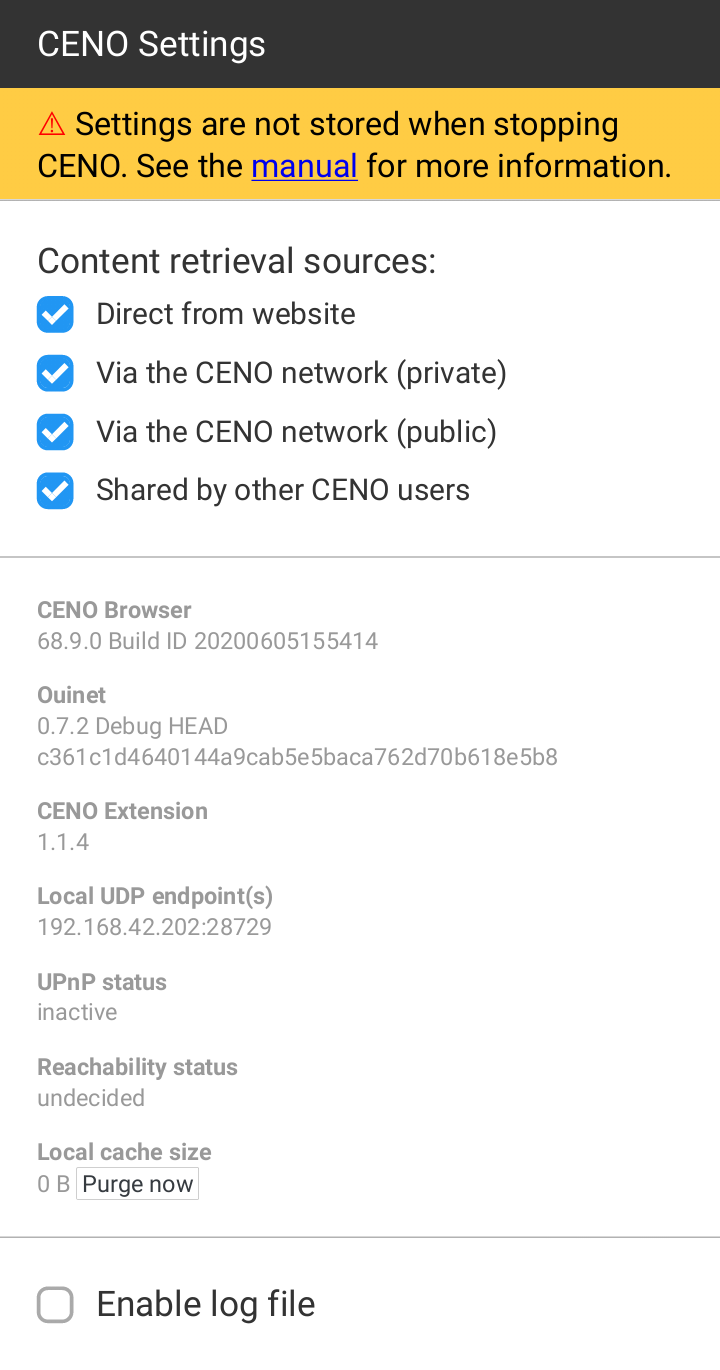
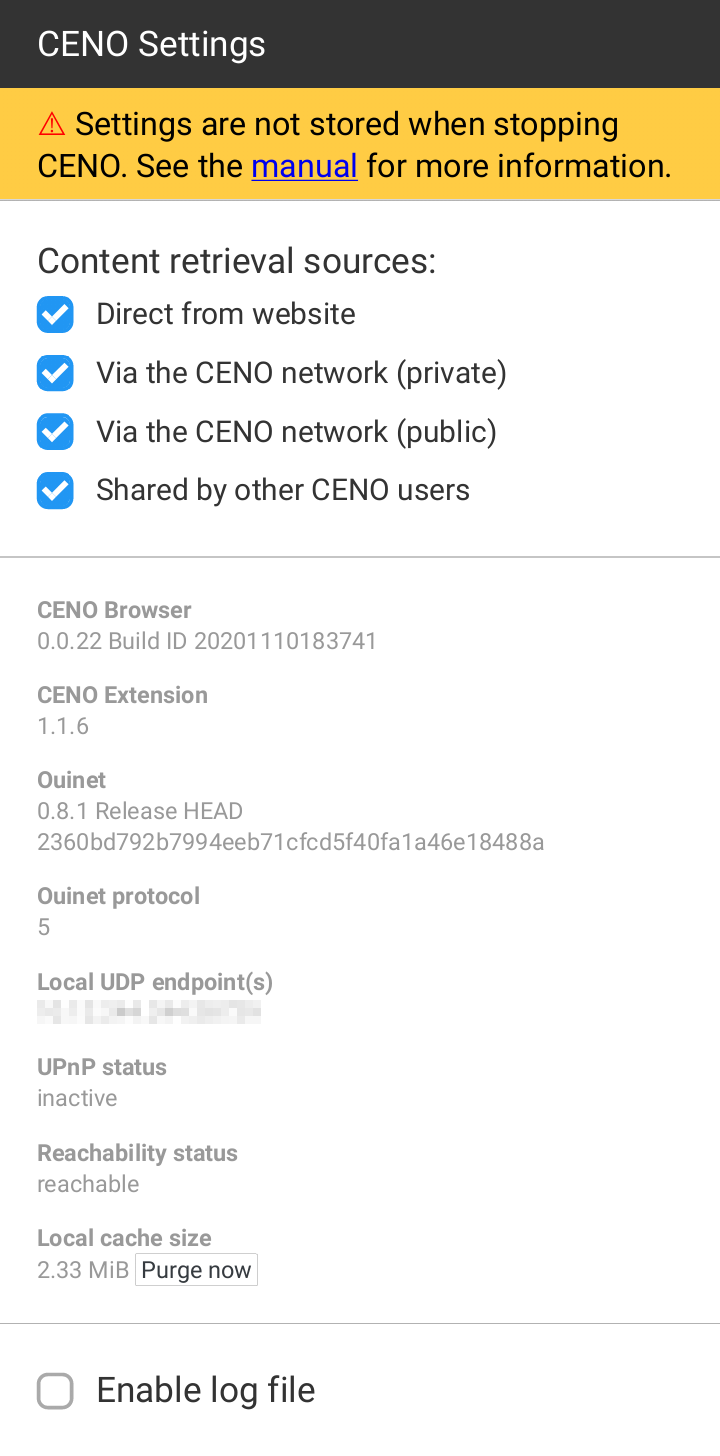
User Manual: Update settings section with protocol version.
As added by CENO `v0.0.22`.

diff --git a/user-manual/en/browser/settings.md b/user-manual/en/browser/settings.md
@@ -47,8 +47,9 @@ Disabling all the mechanisms available for either public or private browsing mod
 The page also provides you with some information about your CENO Browser app and Ouinet client:
 
   - *CENO Browser* indicates the exact version of CENO that you are using.  Please include this information in your issue reports.
-  - *Ouinet* shows the version of Ouinet backing CENO.  Also include in reports.
   - *CENO Extension* shows the version of the extension that integrates Firefox with CENO.  Also include in reports.
+  - *Ouinet* shows the version of Ouinet backing CENO.  Also include in reports.
+  - *Ouinet protocol* is the version number of the protocol that CENO uses to talk to other Ouinet clients and injectors.  Also include in reports.
   - *Local UDP endpoint(s)* are the Internet addresses used by CENO to seed signed content to other clients.  These are shown to help test and debug the app, and should not be generally disclosed.
   - *UPnP status* indicates whether CENO was able to tell your router or access point to allow incoming connections towards it.  Also include in reports.
   - *Reachability status* indicates how likely it is for your device to be able to effectively seed content to other clients.  Also include in reports.
